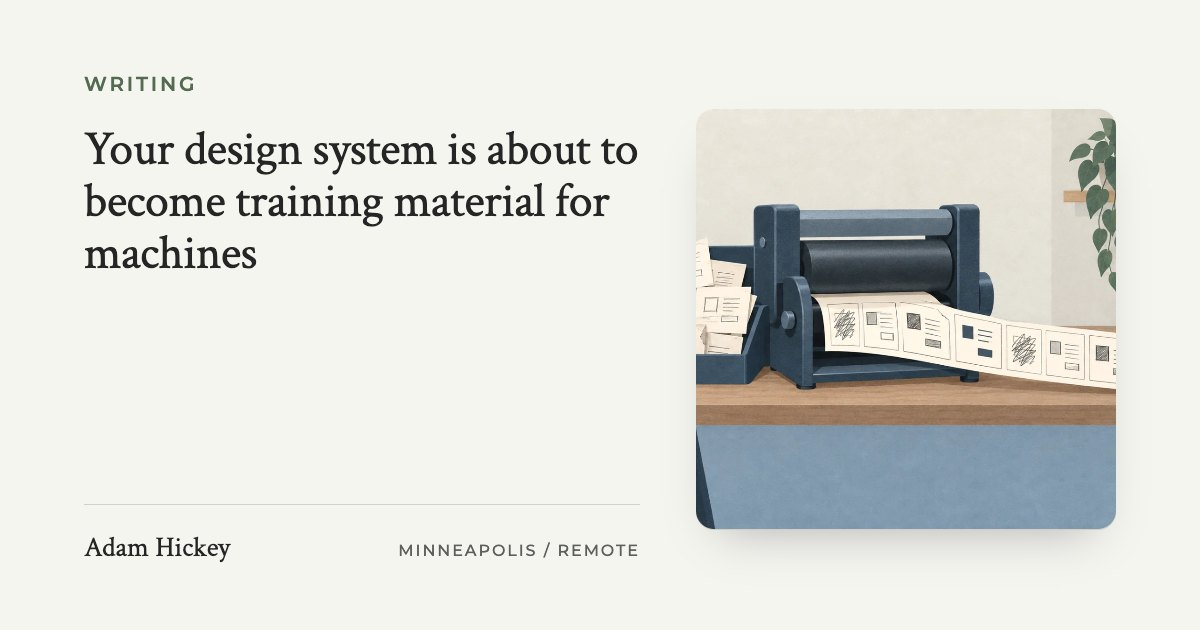
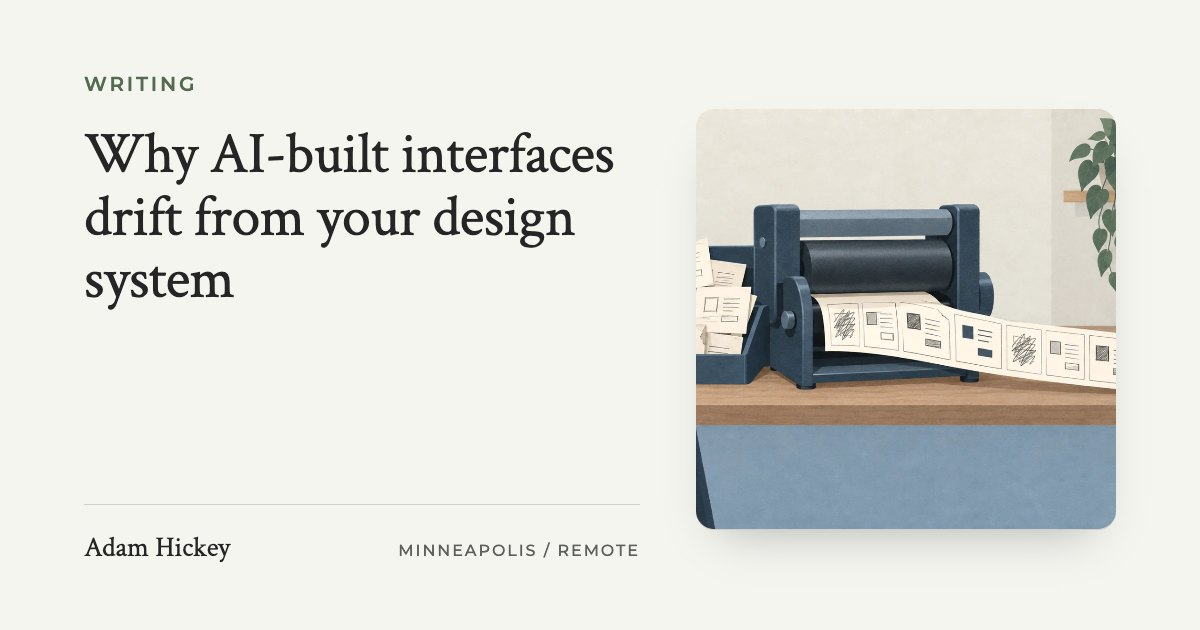
The writing index leads with the organizational article, the AI article says why generated interfaces drift, and three absolutes about agents and building give way
The index reorders to organizational, prototype, design system, SAP, AI, handoff, so the first impression is the breadth of the practice rather than the design-system specialism three of the six share, and the Next chain follows the new order. The intro leads with what the collection is about before the question-first promise. The AI article's h1 moves from "training material for machines" to "Why AI-built interfaces drift from your design system": the workflow it describes supplies context at task time, not training, and the head keeps its search title. Two articles said an agent "cannot ask"; it can, but not of the person who settled the decision and never wrote it down. The prototype article's dek leaves room for feasibility being the risky uncertainty, and "cheap" becomes "fast".

Changed region(s): [[0.0617, 0.2111, 0.5242, 0.4825]]

diff --git a/writing/index.html b/writing/index.html
@@ -12,13 +12,13 @@
   <meta charset="utf-8" />
   <meta name="viewport" content="width=device-width, initial-scale=1" />
   <title>Writing on Enterprise Product Design, Design Systems and AI | Adam Hickey</title>
-  <meta name="description" content="Articles on complex enterprise software: when a product needs a design system, what a prototype should prove, AI and the handoff, and why UX problems are organizational." />
+  <meta name="description" content="Articles on complex enterprise software: why UX problems are organizational, what a prototype should prove, when a product needs a design system, and AI and the handoff." />
 
   <link rel="canonical" href="https://adamhickey.com/writing/index.html" />
   <meta property="og:type" content="website" />
   <meta property="og:url" content="https://adamhickey.com/writing/index.html" />
   <meta property="og:title" content="Writing on Enterprise Product Design, Design Systems and AI | Adam Hickey" />
-  <meta property="og:description" content="Articles on complex enterprise software: when a product needs a design system, what a prototype should prove, AI and the handoff, and why UX problems are organizational." />
+  <meta property="og:description" content="Articles on complex enterprise software: why UX problems are organizational, what a prototype should prove, when a product needs a design system, and AI and the handoff." />
   <meta property="og:image" content="https://adamhickey.com/img/og/writing.jpg" />
   <meta property="og:image:width" content="1200" />
   <meta property="og:image:height" content="630" />
@@ -35,7 +35,7 @@
           "@type": "CollectionPage",
           "@id": "https://adamhickey.com/writing/index.html#page",
           "name": "Writing",
-          "description": "Articles on complex enterprise software: when a product needs a design system, what a prototype should prove, AI and the handoff, and why UX problems are organizational.",
+          "description": "Articles on complex enterprise software: why UX problems are organizational, what a prototype should prove, when a product needs a design system, and AI and the handoff.",
           "url": "https://adamhickey.com/writing/index.html",
           "isPartOf": {
             "@id": "https://adamhickey.com/#website"
@@ -44,6 +44,12 @@
             "@id": "https://adamhickey.com/#adam"
           },
           "hasPart": [
+            {
+              "@id": "https://adamhickey.com/writing/why-enterprise-ux-problems-are-organizational-problems.html#article"
+            },
+            {
+              "@id": "https://adamhickey.com/writing/what-should-a-working-prototype-actually-prove.html#article"
+            },
             {
               "@id": "https://adamhickey.com/writing/when-does-a-product-need-a-design-system.html#article"
             },
@@ -55,12 +61,6 @@
             },
             {
               "@id": "https://adamhickey.com/writing/where-does-design-end-and-development-begin-now.html#article"
-            },
-            {
-              "@id": "https://adamhickey.com/writing/what-should-a-working-prototype-actually-prove.html#article"
-            },
-            {
-              "@id": "https://adamhickey.com/writing/why-enterprise-ux-problems-are-organizational-problems.html#article"
             }
           ],
           "inLanguage": "en"
@@ -227,16 +227,39 @@
       <div class="container case-narrow">
         <h1 class="case-title">Writing</h1>
         <!-- What the articles are collectively about, in the words a buyer
-             would use before knowing the name. Each one answers a question
-             people ask before they know who to ask, in its first paragraph,
-             and links to the engagement and the account it draws on. -->
-        <p class="build-dek">Questions people ask about complicated software before they know who to ask. Each one answered in its first paragraph, from twenty years inside enterprise products, design systems and the AI tools that now build with them.</p>
+             would use before knowing the name. The first sentence is the
+             breadth of the collection, so the first impression is not the
+             design-system specialism the first three articles share. Each
+             one answers a question people ask before they know who to ask,
+             in its first paragraph, and links to the engagement and the
+             account it draws on. -->
+        <p class="build-dek">Notes on making complicated software clearer, deciding what to build, and getting useful products into people&rsquo;s hands. Each one answers a question people ask before they know who to ask, in its first paragraph, from twenty years inside enterprise products and the tools that now build with them.</p>
       </div>
     </header>
 
     <section class="case-section case-overview">
       <div class="container case-narrow">
         <ol class="writing-list">
+          <li class="writing-item">
+            <a class="writing-link" href="why-enterprise-ux-problems-are-organizational-problems.html">
+              <img class="writing-card" src="../img/writing/why-enterprise-ux-problems-are-organizational-problems-card.webp?v=1" width="640" height="360" alt="" loading="lazy" decoding="async" />
+              <div class="writing-text">
+                <h2 class="writing-title">Why enterprise UX problems are usually organizational problems</h2>
+                <p class="writing-dek">When enterprise software is hard to use, the interface is where the problem showed up, not where it started. What sits behind inconsistency, stalled decisions and unused systems.</p>
+                <p class="writing-meta">5 min read</p>
+              </div>
+            </a>
+          </li>
+          <li class="writing-item">
+            <a class="writing-link" href="what-should-a-working-prototype-actually-prove.html">
+              <img class="writing-card" src="../img/writing/what-should-a-working-prototype-actually-prove-card.webp?v=1" width="640" height="360" alt="" loading="lazy" decoding="async" />
+              <div class="writing-text">
+                <h2 class="writing-title">What should a working prototype actually prove?</h2>
+                <p class="writing-dek">A prototype should resolve the uncertainty that makes the next investment risky, usually whether the idea is worth building: real code, real inputs, the people who would use it, and a build, kill, or park call.</p>
+                <p class="writing-meta">4 min read</p>
+              </div>
+            </a>
+          </li>
           <li class="writing-item">
             <a class="writing-link" href="when-does-a-product-need-a-design-system.html">
               <img class="writing-card" src="../img/writing/when-does-a-product-need-a-design-system-card.webp?v=1" width="640" height="360" alt="" loading="lazy" decoding="async" />
@@ -261,7 +284,7 @@
             <a class="writing-link" href="is-your-design-system-ready-for-ai-agents.html">
               <img class="writing-card" src="../img/writing/is-your-design-system-ready-for-ai-agents-card.webp?v=1" width="640" height="360" alt="" loading="lazy" decoding="async" />
               <div class="writing-text">
-                <h2 class="writing-title">Your design system is about to become training material for machines</h2>
+                <h2 class="writing-title">Why AI-built interfaces drift from your design system</h2>
                 <p class="writing-dek">Design systems had two audiences. AI coding tools are a third, and they generate from whatever the organization made legible. What an agent needs, and how to test for it.</p>
                 <p class="writing-meta">6 min read</p>
               </div>
@@ -274,26 +297,6 @@
                 <h2 class="writing-title">Where does design end and development begin, now?</h2>
                 <p class="writing-dek">AI coding tools moved the line between design and development. Where it sits now: build, verify and stand behind, and when to bring an engineer in for leverage rather than rescue.</p>
                 <p class="writing-meta">6 min read</p>
-              </div>
-            </a>
-          </li>
-          <li class="writing-item">
-            <a class="writing-link" href="what-should-a-working-prototype-actually-prove.html">
-              <img class="writing-card" src="../img/writing/what-should-a-working-prototype-actually-prove-card.webp?v=1" width="640" height="360" alt="" loading="lazy" decoding="async" />
-              <div class="writing-text">
-                <h2 class="writing-title">What should a working prototype actually prove?</h2>
-                <p class="writing-dek">Building is the cheap part now. A prototype should prove whether the idea is worth building: real code, real inputs, the people who would use it, and a build, kill, or park call.</p>
-                <p class="writing-meta">4 min read</p>
-              </div>
-            </a>
-          </li>
-          <li class="writing-item">
-            <a class="writing-link" href="why-enterprise-ux-problems-are-organizational-problems.html">
-              <img class="writing-card" src="../img/writing/why-enterprise-ux-problems-are-organizational-problems-card.webp?v=1" width="640" height="360" alt="" loading="lazy" decoding="async" />
-              <div class="writing-text">
-                <h2 class="writing-title">Why enterprise UX problems are usually organizational problems</h2>
-                <p class="writing-dek">When enterprise software is hard to use, the interface is where the problem showed up, not where it started. What sits behind inconsistency, stalled decisions and unused systems.</p>
-                <p class="writing-meta">5 min read</p>
               </div>
             </a>
           </li>

diff --git a/writing/what-should-a-working-prototype-actually-prove.html b/writing/what-should-a-working-prototype-actually-prove.html
@@ -12,13 +12,13 @@
   <meta charset="utf-8" />
   <meta name="viewport" content="width=device-width, initial-scale=1" />
   <title>What Should an AI Product Prototype Prove? | Adam Hickey</title>
-  <meta name="description" content="Building is the cheap part now. A prototype should prove whether the idea is worth building: real code, real inputs, the people who would use it, and a build, kill, or park call." />
+  <meta name="description" content="A prototype should resolve the uncertainty that makes the next investment risky, usually whether the idea is worth building: real code, real inputs, the people who would use it, and a build, kill, or park call." />
 
   <link rel="canonical" href="https://adamhickey.com/writing/what-should-a-working-prototype-actually-prove.html" />
   <meta property="og:type" content="article" />
   <meta property="og:url" content="https://adamhickey.com/writing/what-should-a-working-prototype-actually-prove.html" />
   <meta property="og:title" content="What Should an AI Product Prototype Prove? | Adam Hickey" />
-  <meta property="og:description" content="Building is the cheap part now. A prototype should prove whether the idea is worth building: real code, real inputs, the people who would use it, and a build, kill, or park call." />
+  <meta property="og:description" content="A prototype should resolve the uncertainty that makes the next investment risky, usually whether the idea is worth building: real code, real inputs, the people who would use it, and a build, kill, or park call." />
   <meta property="og:image" content="https://adamhickey.com/img/og/what-should-a-working-prototype-actually-prove.jpg" />
   <meta property="og:image:width" content="1200" />
   <meta property="og:image:height" content="630" />
@@ -39,7 +39,7 @@
           "@type": "Article",
           "@id": "https://adamhickey.com/writing/what-should-a-working-prototype-actually-prove.html#article",
           "headline": "What should a working prototype actually prove?",
-          "description": "Building is the cheap part now. A prototype should prove whether the idea is worth building: real code, real inputs, the people who would use it, and a build, kill, or park call.",
+          "description": "A prototype should resolve the uncertainty that makes the next investment risky, usually whether the idea is worth building: real code, real inputs, the people who would use it, and a build, kill, or park call.",
           "url": "https://adamhickey.com/writing/what-should-a-working-prototype-actually-prove.html",
           "mainEntityOfPage": "https://adamhickey.com/writing/what-should-a-working-prototype-actually-prove.html",
           "image": "https://adamhickey.com/img/og/what-should-a-working-prototype-actually-prove.jpg",
@@ -242,7 +242,7 @@
              a search wants the question answered in the first screen, and a
              machine asked the question can quote this paragraph on its own.
              The essay below is why it is the answer. -->
-        <p class="build-dek">Whether the idea is worth building, not whether it can be built. Building is the cheap part now. So a prototype should run in real code on real inputs, be used by the people who would use it on a Tuesday, and end in one of three calls: build, kill, or park, with the cost of the next step attached. A demo that proves the idea can be demonstrated has answered the wrong question.</p>
+        <p class="build-dek">Whatever makes the next investment risky. Usually that is whether the idea is worth building, not whether it can be built, because building got fast. So a prototype should run in real code on real inputs, be used by the people who would use it on a Tuesday, and end in one of three calls: build, kill, or park, with the cost of the next step attached. A demo that proves the idea can be demonstrated has answered the wrong question.</p>
         <!-- The feature: one drawing per article, in the engagement set's
              style, of the argument rather than the topic. Under the dek so
              the answer is read before the picture is, and inside the hero
@@ -260,8 +260,9 @@
           <p>The team has ideas. Sketches, a deck, half a decision, maybe a demo or three, and pressure from somewhere to make one of them real. Nobody can say yet which is worth building, who it helps, or what it would cost to run, because nothing exists that anyone can actually use.</p>
           <p>A demo does not fix that. A demo proves the idea can be demonstrated, which was never in doubt. The questions that decide whether to fund it are different ones: does anyone reach for this on an ordinary day, what happens when the inputs are the real ones rather than the ones on the slide, and what does it cost to keep running once the person who built the demo has moved on?</p>
           <p>Working software is the fastest way to find out.</p>
+          <p>Sometimes the risky uncertainty is technical: whether two systems can be made to talk to each other at all, or whether the data will hold up the workflow. Then feasibility is the question, and the prototype is built to answer it. More often, on the engagements I run, the idea can plainly be built, and the open question is whether it should be.</p>
 
-          <h2>Building got cheap, so judgment got expensive</h2>
+          <h2>Building got fast, so judgment got expensive</h2>
           <p>AI is making the production layer of design fast. A competent person can generate interface directions, produce diagrams and create working prototypes at a speed that would have seemed absurd a few years ago.</p>
           <p>That does not make the work worthless. It makes it strange to sell it as the production of artifacts. If a prototype that once took two weeks can now be built in two days, the important question becomes: did we prototype the right thing?</p>
           <p>The scarce part shifted toward diagnosis, framing, taste and context. Knowing which questions matter. Knowing when an apparently reasonable answer is wrong for this particular organization. Knowing when to stop generating possibilities and commit.</p>
@@ -296,9 +297,9 @@
              rather than a pitch, for the same reason the case studies end on
              one. -->
         <p class="build-service">If this is the situation you are in: <a href="../engagement/working-product-prototype.html">Working Product Prototype</a>, four to six weeks, fixed scope and fixed fee. The account this draws on: <a href="../case-study/lucy-learns.html">How I built Lucy Learns</a>.</p>
-        <a class="build-next" href="why-enterprise-ux-problems-are-organizational-problems.html">
+        <a class="build-next" href="when-does-a-product-need-a-design-system.html">
           <span class="build-next-eyebrow">Next</span>
-          <span class="build-next-title">Why enterprise UX problems are usually organizational problems &rarr;</span>
+          <span class="build-next-title">When does a product need a design system? &rarr;</span>
         </a>
         <a class="btn-back" href="index.html">
           <svg viewBox="0 0 24 24" fill="none" stroke="currentColor" stroke-width="2" stroke-linecap="round" stroke-linejoin="round" aria-hidden="true"><path d="m15 18-6-6 6-6"/></svg>

diff --git a/writing/standardizing-ux-across-40-sap-fiori-apps.html b/writing/standardizing-ux-across-40-sap-fiori-apps.html
@@ -296,7 +296,7 @@
 
           <h2>What I would tell a team starting this now</h2>
           <p>Start with the inventory, side by side, before anyone builds a component. Write the checks into the release process rather than the wiki. Pick the two or three numbers that will say whether it is working, and start counting in the first quarter, not the last.</p>
-          <p>And one thing that was not true when this work was done: the AI tools your teams now build with read the system too, and they cannot ask which of two components is the right one. The legibility that helped forty teams is now what decides whether an agent builds the right thing.</p>
+          <p>And one thing that was not true when this work was done: the AI tools your teams now build with read the system too, and they cannot ask the person who settled which of two components is the right one and never wrote it down. The legibility that helped forty teams is now what decides whether an agent builds the right thing.</p>
         </div>
       </div>
     </section>
@@ -310,7 +310,7 @@
         <p class="build-service">If this is the situation you are in: <a href="../engagement/design-system-foundation.html">Design System Foundation</a>, the same opening moves at the size of one suite. The account this draws on: <a href="../case-study/sap-product-maturity.html">Making 40+ enterprise apps feel like one product</a>.</p>
         <a class="build-next" href="is-your-design-system-ready-for-ai-agents.html">
           <span class="build-next-eyebrow">Next</span>
-          <span class="build-next-title">Your design system is about to become training material for machines &rarr;</span>
+          <span class="build-next-title">Why AI-built interfaces drift from your design system &rarr;</span>
         </a>
         <a class="btn-back" href="index.html">
           <svg viewBox="0 0 24 24" fill="none" stroke="currentColor" stroke-width="2" stroke-linecap="round" stroke-linejoin="round" aria-hidden="true"><path d="m15 18-6-6 6-6"/></svg>

diff --git a/writing/is-your-design-system-ready-for-ai-agents.html b/writing/is-your-design-system-ready-for-ai-agents.html
@@ -38,7 +38,7 @@
         {
           "@type": "Article",
           "@id": "https://adamhickey.com/writing/is-your-design-system-ready-for-ai-agents.html#article",
-          "headline": "Your design system is about to become training material for machines",
+          "headline": "Why AI-built interfaces drift from your design system",
           "description": "Design systems had two audiences. AI coding tools are a third, and they generate from whatever the organization made legible. What an agent needs, and how to test for it.",
           "url": "https://adamhickey.com/writing/is-your-design-system-ready-for-ai-agents.html",
           "mainEntityOfPage": "https://adamhickey.com/writing/is-your-design-system-ready-for-ai-agents.html",
@@ -93,7 +93,7 @@
             {
               "@type": "ListItem",
               "position": 3,
-              "name": "Your design system is about to become training material for machines",
+              "name": "Why AI-built interfaces drift from your design system",
               "item": "https://adamhickey.com/writing/is-your-design-system-ready-for-ai-agents.html"
             }
           ]
@@ -241,7 +241,7 @@
     <header class="case-hero">
       <div class="container case-narrow">
         <p class="case-kicker">Writing &middot; 6 min read</p>
-        <h1 class="case-title">Your design system is about to become training material for machines</h1>
+        <h1 class="case-title">Why AI-built interfaces drift from your design system</h1>
         <!-- The answer, whole, before the argument. A reader who came in from
              a search wants the question answered in the first screen, and a
              machine asked the question can quote this paragraph on its own.

diff --git a/writing/when-does-a-product-need-a-design-system.html b/writing/when-does-a-product-need-a-design-system.html
@@ -275,7 +275,7 @@
 
           <h2>The third reader</h2>
           <p>For years a certain amount of ambiguity was survivable, because humans fill gaps. A designer who sees three nearly identical cards asks someone which one to use.</p>
-          <p>The AI tools teams now build with cannot ask. They see four data tables and generate a fifth. And once anyone on a team can ask an agent for a new component in minutes, the cost of divergence approaches zero. You no longer need neglect to create inconsistency. You only need every team to solve its immediate problem.</p>
+          <p>The AI tools teams now build with can ask a question, but not of the person who settled this one and never wrote it down. They see four data tables and generate a fifth. And once anyone on a team can ask an agent for a new component in minutes, the cost of divergence approaches zero. You no longer need neglect to create inconsistency. You only need every team to solve its immediate problem.</p>
           <p>That makes the case for a system stronger at exactly the moment some people expect AI to make it weaker. Creation got cheap. Consistency did not.</p>
 
           <h2>What changed once the system was in place</h2>

diff --git a/writing/where-does-design-end-and-development-begin-now.html b/writing/where-does-design-end-and-development-begin-now.html
@@ -309,9 +309,9 @@
              rather than a pitch, for the same reason the case studies end on
              one. -->
         <p class="build-service">If this is the situation you are in: <a href="../engagement/working-product-prototype.html">Working Product Prototype</a>, four to six weeks, in real code on real inputs. The account this draws on: <a href="../case-study/lucy-learns.html">How I built Lucy Learns</a>.</p>
-        <a class="build-next" href="what-should-a-working-prototype-actually-prove.html">
+        <a class="build-next" href="why-enterprise-ux-problems-are-organizational-problems.html">
           <span class="build-next-eyebrow">Next</span>
-          <span class="build-next-title">What should a working prototype actually prove? &rarr;</span>
+          <span class="build-next-title">Why enterprise UX problems are usually organizational problems &rarr;</span>
         </a>
         <a class="btn-back" href="index.html">
           <svg viewBox="0 0 24 24" fill="none" stroke="currentColor" stroke-width="2" stroke-linecap="round" stroke-linejoin="round" aria-hidden="true"><path d="m15 18-6-6 6-6"/></svg>

diff --git a/writing/why-enterprise-ux-problems-are-organizational-problems.html b/writing/why-enterprise-ux-problems-are-organizational-problems.html
@@ -301,9 +301,9 @@
              rather than a pitch, for the same reason the case studies end on
              one. -->
         <p class="build-service">If this is the situation you are in: <a href="../engagement/product-clarity.html">Product Clarity</a>, two to four weeks, one agreed problem. The account this draws on: <a href="../case-study/dispatch-complexity.html">One real-time view of a 450+ truck fleet</a>.</p>
-        <a class="build-next" href="when-does-a-product-need-a-design-system.html">
+        <a class="build-next" href="what-should-a-working-prototype-actually-prove.html">
           <span class="build-next-eyebrow">Next</span>
-          <span class="build-next-title">When does a product need a design system? &rarr;</span>
+          <span class="build-next-title">What should a working prototype actually prove? &rarr;</span>
         </a>
         <a class="btn-back" href="index.html">
           <svg viewBox="0 0 24 24" fill="none" stroke="currentColor" stroke-width="2" stroke-linecap="round" stroke-linejoin="round" aria-hidden="true"><path d="m15 18-6-6 6-6"/></svg>
